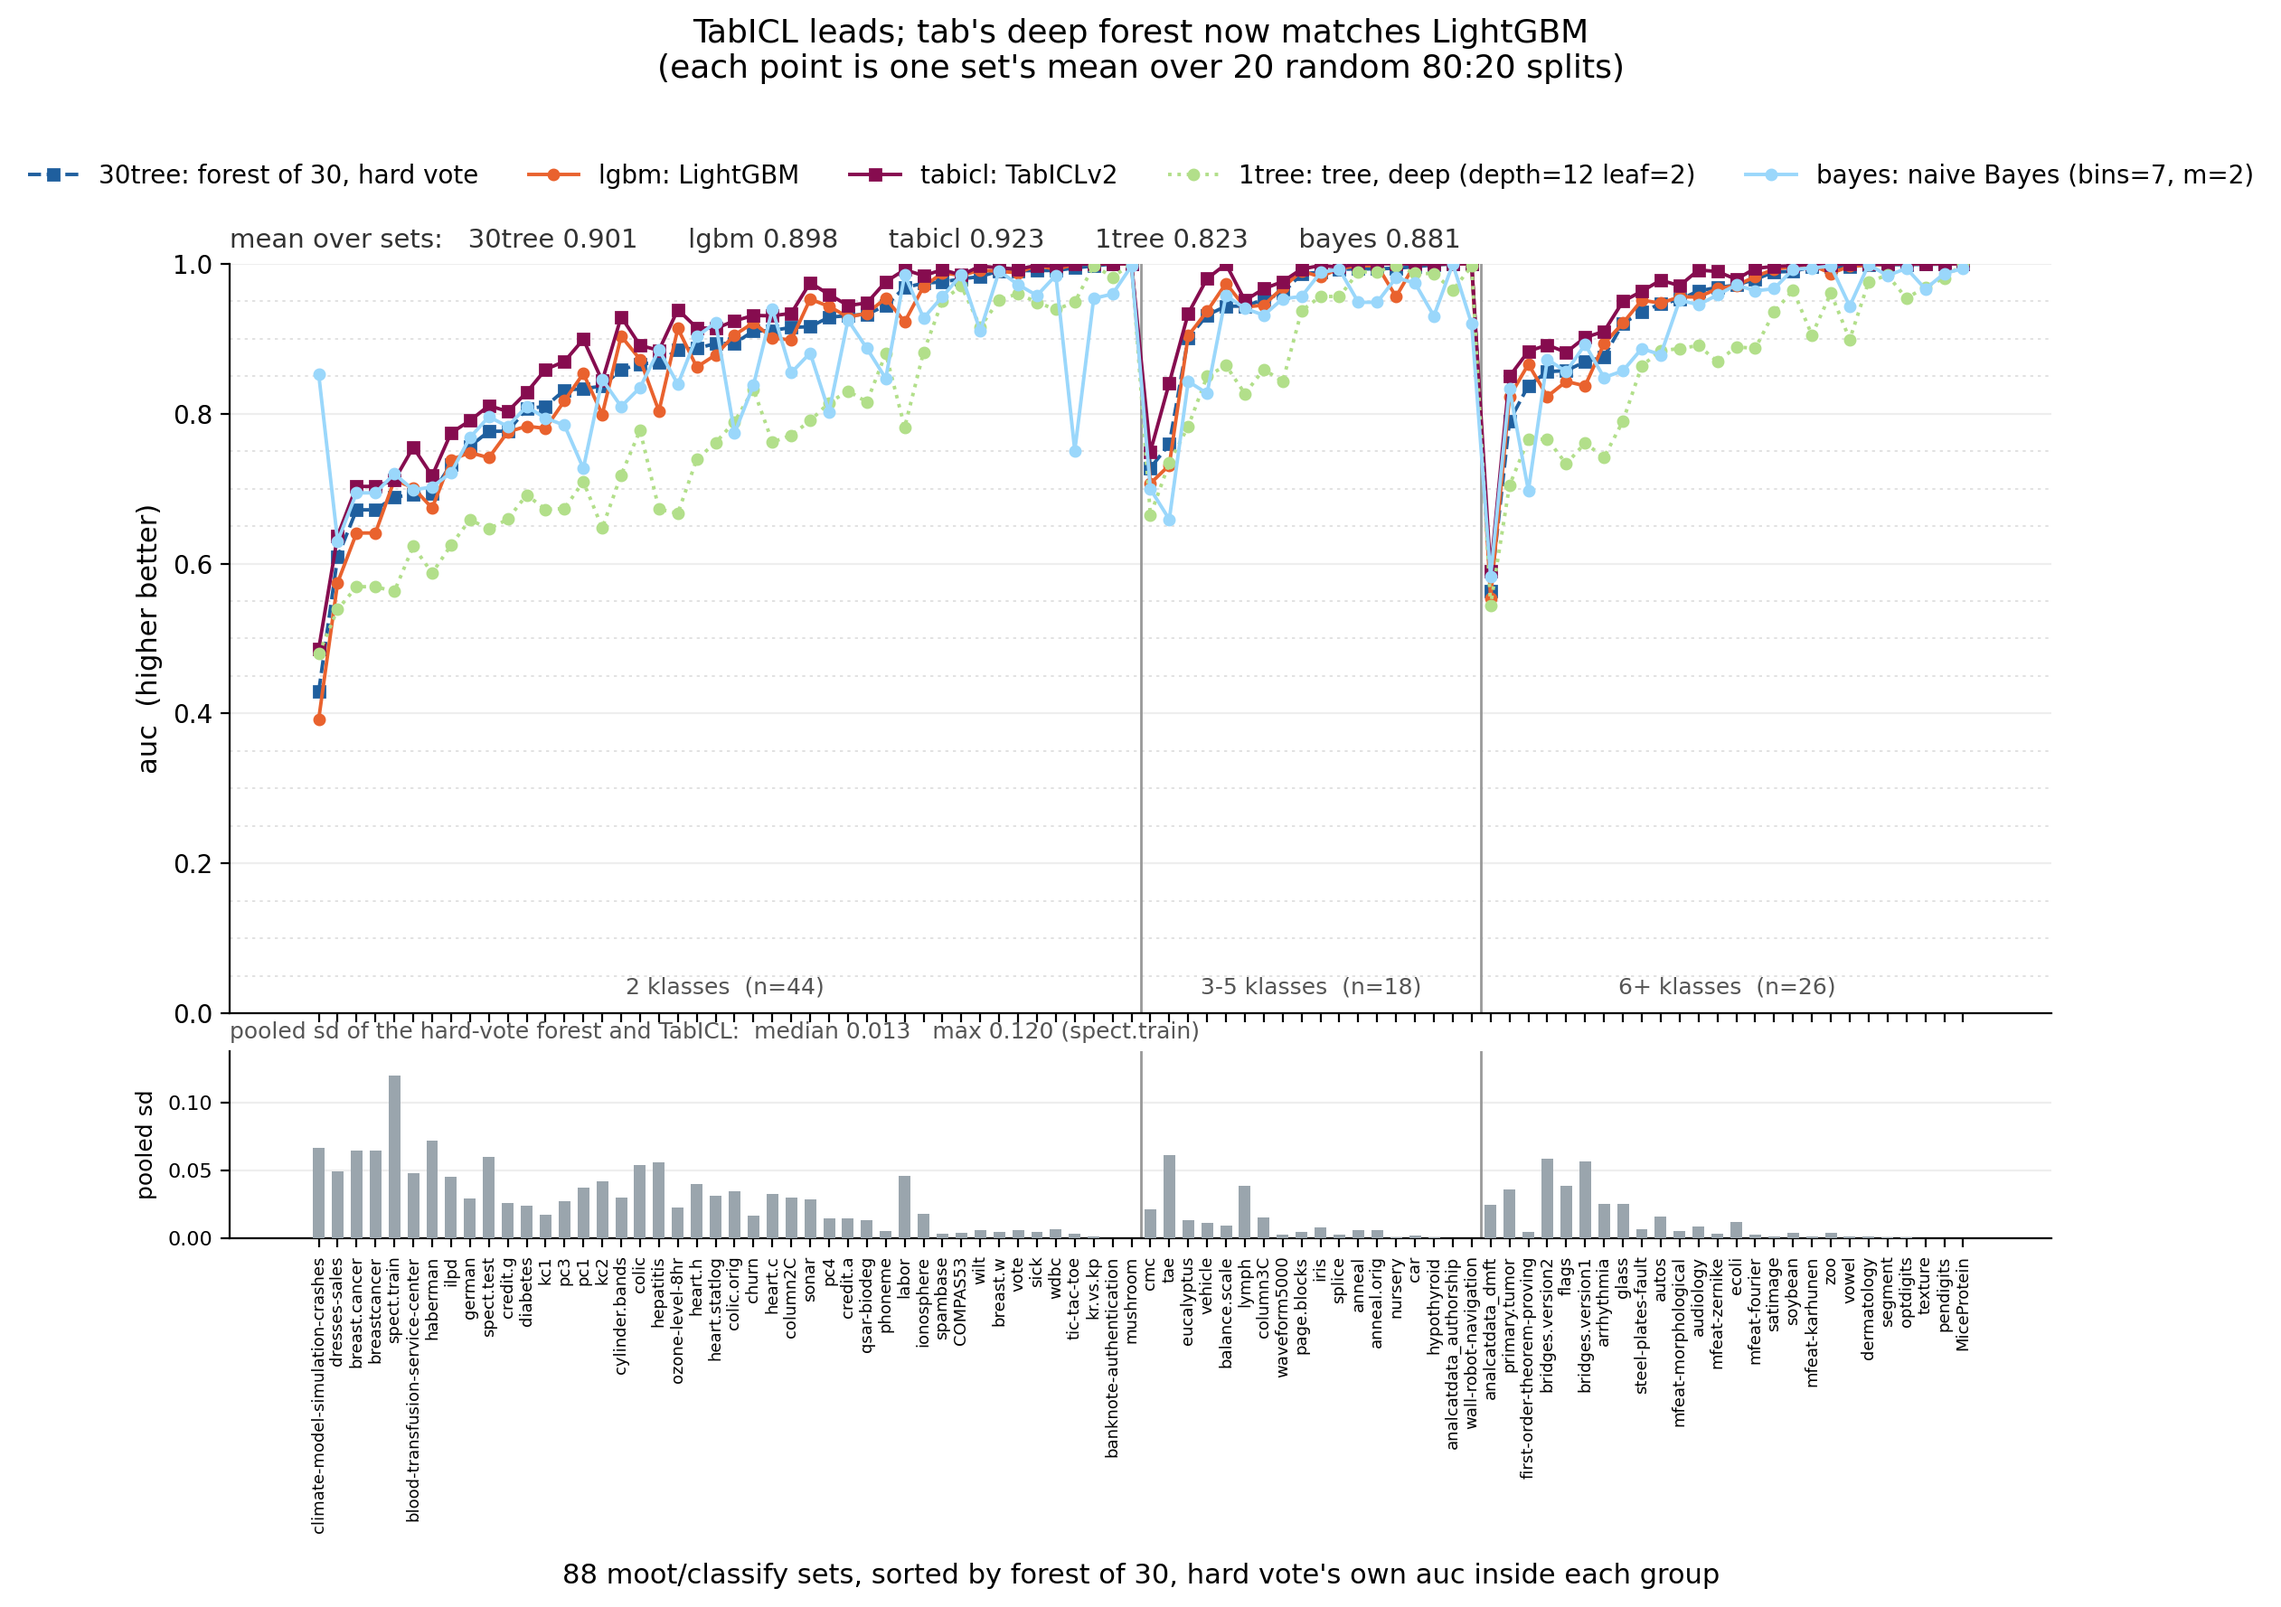
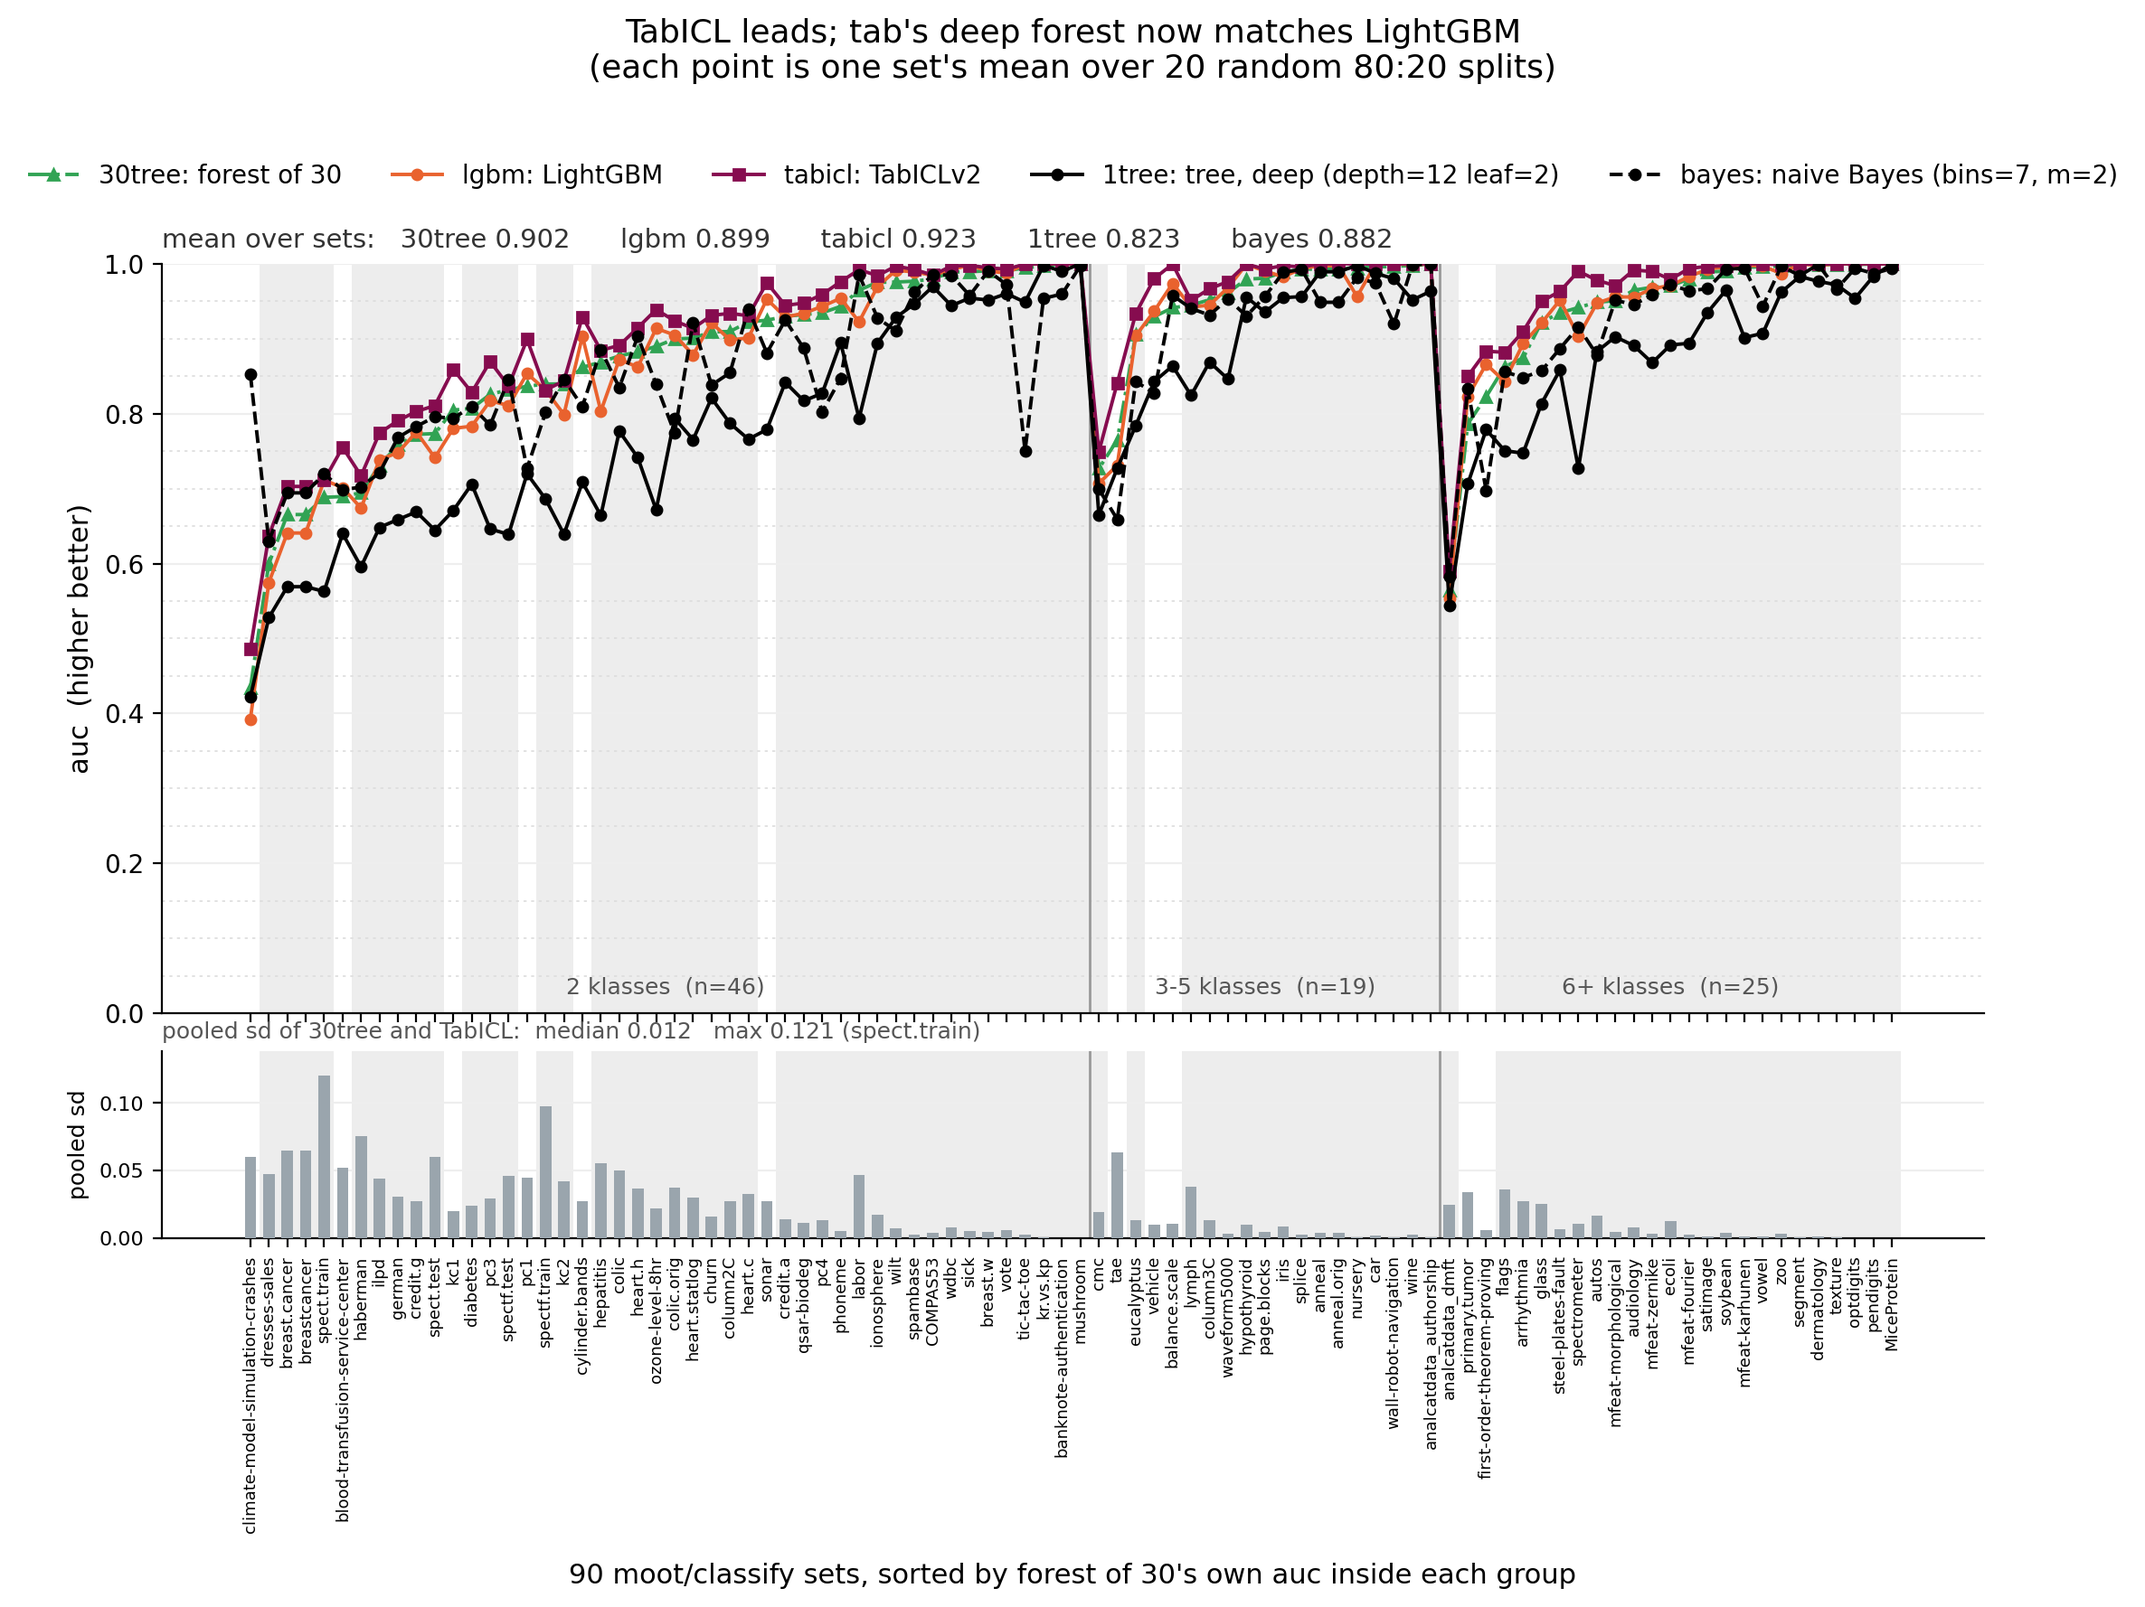
measure tab against LightGBM properly: 2.4x, not 9x
Per fit, startup excluded by construction, minimum over 3 interleaved
runs, quiet machine, lgbm at n_jobs=1 -- the only setting where its
time.time() and tab's os.clock() measure the same quantity.

  tab 2.088s   lgbm 5.061s   2.42x by sum, 1.52x geometric mean
  tab wins 7 of 14 sets, loses 7

The ~9x on raw.png came from two things, neither of them the search:
python plus `import lightgbm` is 1.31s per process against luajit's
0.039s, and LightGBM's default threading costs it 4.6x on sets this
small, which `xargs -P 8` then multiplied. tab wins where klasses are
many and loses on binary sets.

A first attempt at the measurement was wrong the same way everything
else here has been: it ran tab immediately after an all-core lgbm run,
so tab was scheduled onto the e-cores and os.clock() read 3x high.
Noted in CLAUDE.md, with the figures that still carry `-P 8` seconds.

Also publishes auc.png and pdpf.png, redrawn over the corpus the moot
klass fix enlarged (90 and 99 sets, from 86 and 95), plus -acm
variants whose x labels survive being scaled into a 7in column.
labels.png and top5.png are deliberately untouched.

diff --git a/CLAUDE.md b/CLAUDE.md
@@ -241,9 +241,40 @@ Settle this before citing either number.
   -P 5`, which for LightGBM is 50-way oversubscription and for tab is
   exile to the e-cores. Two errors in opposite directions. `n_jobs` and
   `REPS` are now settable from the environment (`LGBM_JOBS=1` for the
-  per-core question, unset for as-shipped); until a clean pass exists,
-  the `raw.png` left panel and any "x faster than LightGBM" claim are
-  not evidence.
+  per-core question, unset for as-shipped). **Measured 2026-11-06**,
+  per fit, startup excluded by construction (both programs time their
+  own reps), minimum over 3 interleaved runs, quiet machine, lgbm at
+  `n_jobs=1` -- the only setting where its `time.time()` and tab's
+  `os.clock()` denote the same thing -- over the 14-set timing list:
+
+      tab 2.088s   lgbm 5.061s   2.42x by sum, 1.52x geometric mean
+      tab wins 7 of 14 sets and loses 7
+
+  So the ~9x on `raw.png` is wrong by about 4x, and the real result is
+  a split decision: tab wins where klasses are many (MiceProtein
+  11.8x, audiology 6.7x, primary.tumor 6.1x) and loses on binary sets
+  (credit.g 0.18x, kr.vs.kp 0.35x, diabetes 0.46x). Two things made
+  the old number: python plus `import lightgbm` costs 1.31s per
+  process against luajit's 0.039s, and LightGBM's default threading
+  costs it **4.6x** on sets this small -- thread setup exceeds the
+  work -- which `-P 8` then multiplied.
+
+  A first attempt at this measurement was itself wrong, in the same
+  way as everything else here: it ran tab straight after an all-core
+  lgbm run, so tab landed on the e-cores and `os.clock()` read 3x
+  high (waveform5000, 1.59s/rep there against 0.50s/rep alone). Any
+  timing harness that interleaves a threaded arm with a single
+  threaded one has to be read as suspect until a minimum, not a mean,
+  says otherwise.
+
+  `raw.png`, `rawclas.png`, `secs.png` and `cost.png` still read the
+  `secs` column out of the `-P 8` corpus caches and are NOT fixed by
+  the above, which is a separate 14-set harness. Repairing them needs
+  a clean corpus-wide pass: about 25 min for tab, 45 for lgbm, and
+  roughly 35 hours for tabicl, which is why the honest option is to
+  stop putting seconds on a figure whose three curves were each
+  measured a different way. `auc.png` and `pdpf.png` read no `secs`
+  and are unaffected.
 - **moot's klass markers mistyped six classify sets** (fixed upstream in
   moot `37d9853`). The `!` had been appended to the last column, which
   in four sets is a continuous feature, so `wine`, `spectf.test`,
